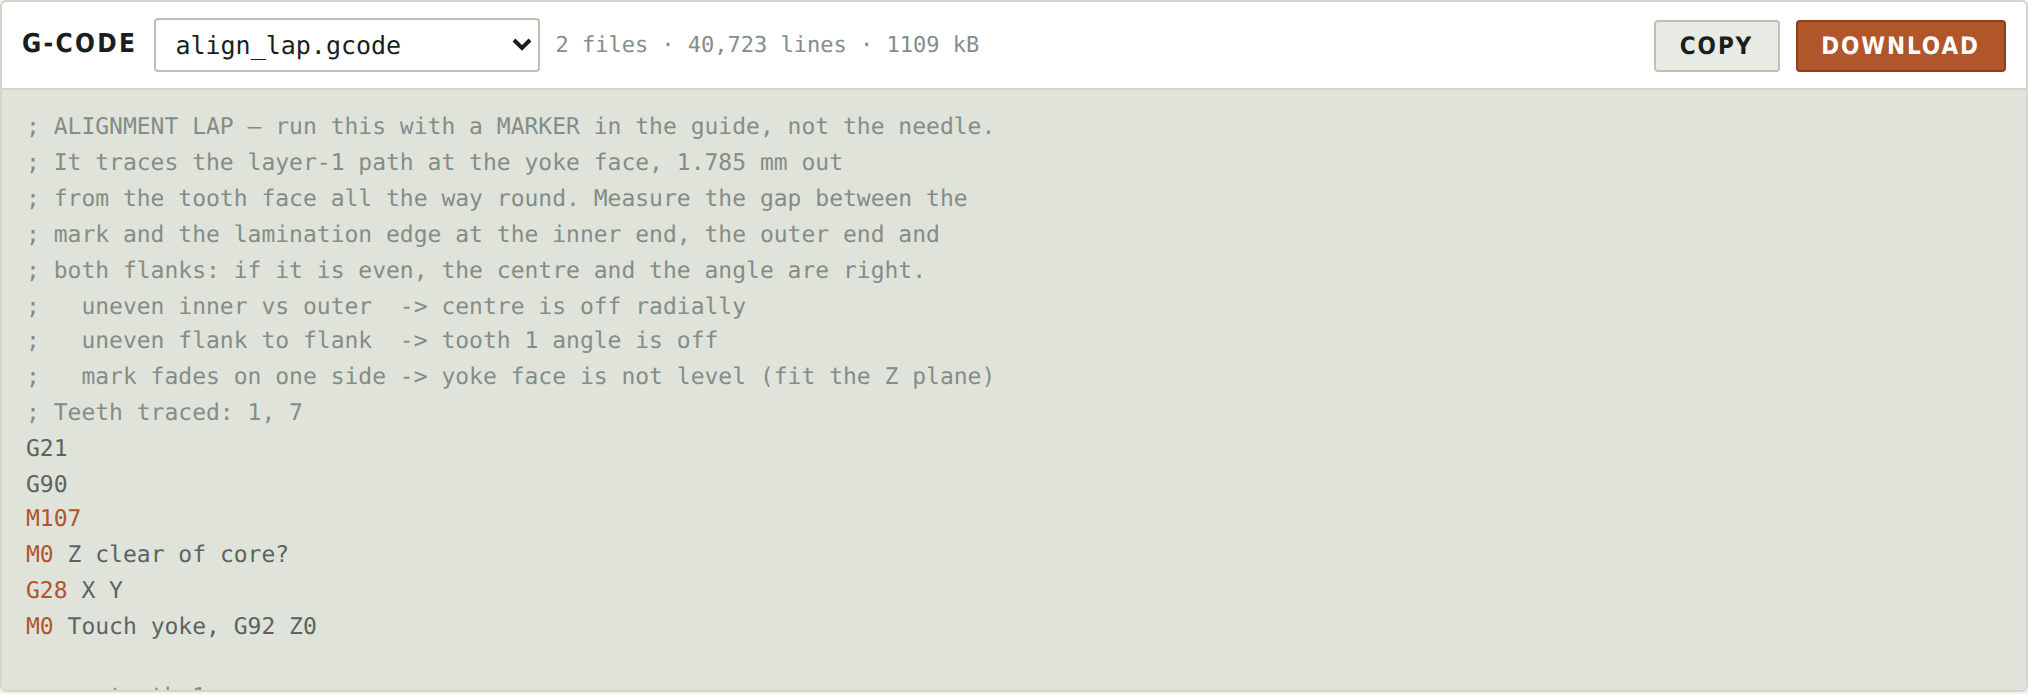
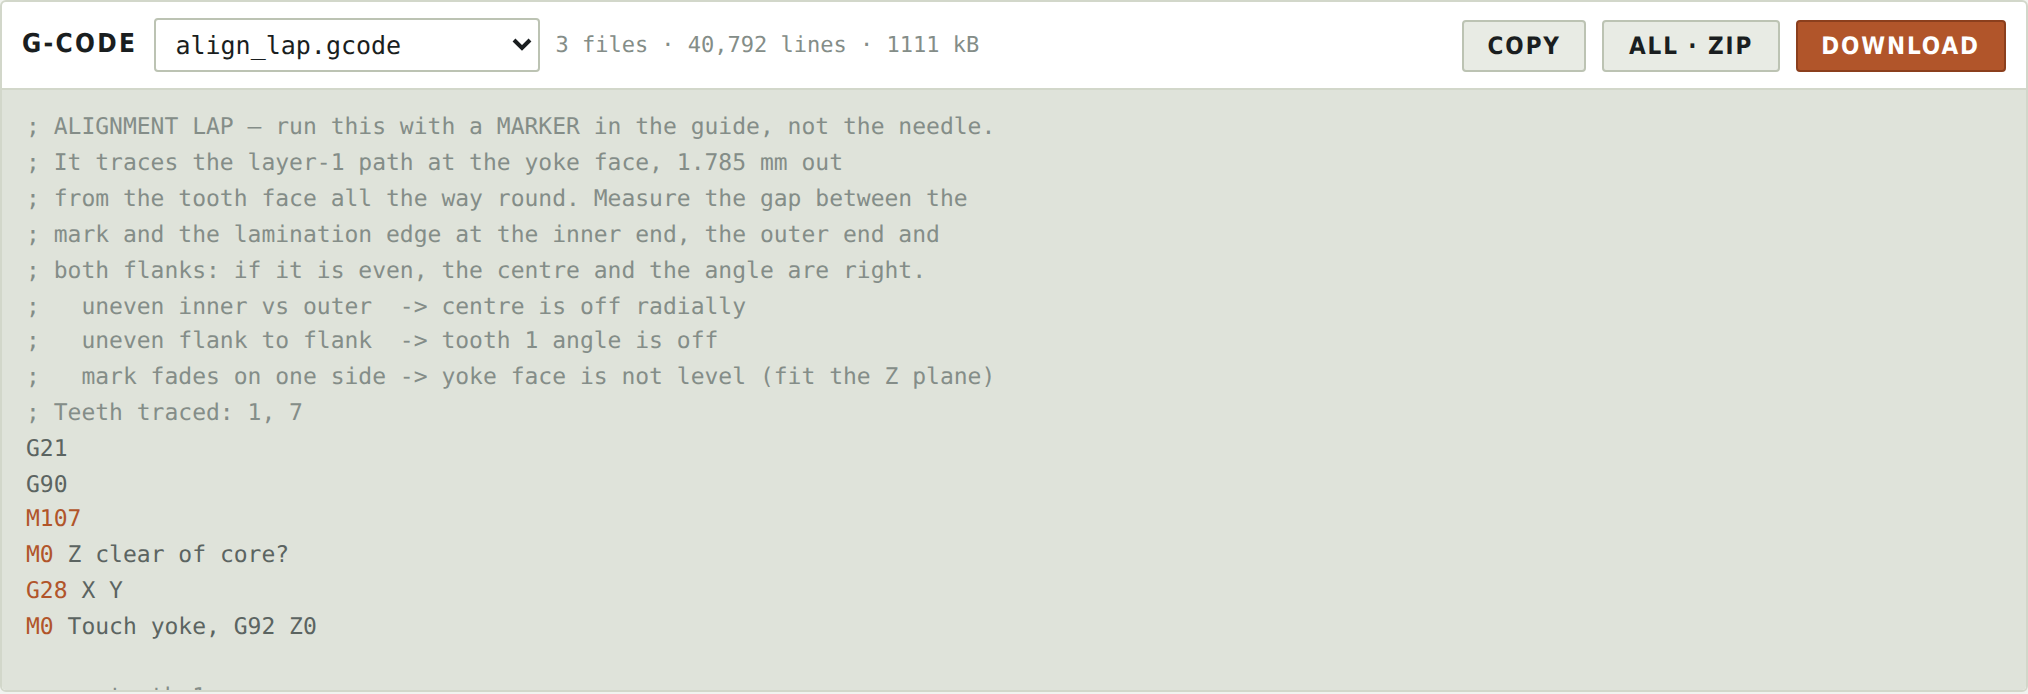
save bug fixed

Changed region(s): [[0.7145, 0.0303, 0.8698, 0.121], [0.4349, 0.0605, 0.466, 0.0908]]

diff --git a/index.html b/index.html
@@ -313,6 +313,7 @@ pre.gcode i{color:var(--ink3);font-style:normal}
       <span class="meta" id="gmeta"></span>
       <span class="spacer"></span>
       <button type="button" class="act" id="btnCopy">Copy</button>
+      <button type="button" class="act" id="btnSaveAll" hidden>All · zip</button>
       <button type="button" class="act pri" id="btnSave">Download</button>
     </div>
     <pre class="gcode" id="gpre"></pre>
@@ -1083,6 +1084,7 @@ function run(){
 
   const sel=$('fileSel');
   sel.hidden=files.length<2;
+  $('btnSaveAll').hidden=files.length<2;
   if(!sel.hidden){
     const keep=sel.value;
     sel.innerHTML=files.map((f,i)=>`<option value="${i}">${f.name}</option>`).join('');
@@ -1402,28 +1404,36 @@ function flash(btn,txt){
   const old=btn.textContent; btn.textContent=txt; btn.disabled=true;
   setTimeout(()=>{btn.textContent=old;btn.disabled=false;},1400);
 }
-$('btnCopy').onclick=async()=>{
-  if(!STATE) return;
-  const i=$('fileSel').hidden?0:+$('fileSel').value;
-  try{ await navigator.clipboard.writeText(STATE.files[i].text); flash($('btnCopy'),'Copied'); }
-  catch(e){ flash($('btnCopy'),'Blocked'); }
-};
-$('btnSave').onclick=async()=>{
-  if(!STATE) return;
-  const {files,p}=STATE, many=files.length>1;
-  const stamp=`${p.turns}t_${p.dOd}mm`;
+const curIdx=()=>{ const s=$('fileSel'); return s.hidden?0:Math.min(+s.value||0,STATE.files.length-1); };
+
+async function deliver(list,zipName,btn){
+  const one=list.length===1;
   if(DL){
-    try{ await DL.save({filename:`coil_winding_${stamp}.zip`, data:zip(files)}); flash($('btnSave'),'Saved'); }
-    catch(err){ flash($('btnSave'), err&&err.code==='declined'?'Cancelled':'Failed'); }
+    // the claude.ai viewer only accepts an allow-listed extension and .gcode
+    // is not one of them, so even a single file goes out inside a zip
+    const name=one?list[0].name.replace(/\.[^.]+$/,'')+'.zip':zipName;
+    try{ await DL.save({filename:name, data:zip(list)}); flash(btn,'Saved'); }
+    catch(err){ flash(btn, err&&err.code==='declined'?'Cancelled':'Failed'); }
     return;
   }
-  const blob=many?zip(files):new Blob([files[0].text],{type:'text/plain'});
+  const blob=one?new Blob([list[0].text],{type:'text/plain'}):zip(list);
   const a=document.createElement('a');
   a.href=URL.createObjectURL(blob);
-  a.download=many?`coil_winding_${stamp}.zip`:files[0].name;
+  a.download=one?list[0].name:zipName;
   document.body.appendChild(a); a.click(); a.remove();
   setTimeout(()=>URL.revokeObjectURL(a.href),4000);
-  flash($('btnSave'),'Saved');
+  flash(btn,'Saved');
+}
+$('btnCopy').onclick=async()=>{
+  if(!STATE) return;
+  try{ await navigator.clipboard.writeText(STATE.files[curIdx()].text); flash($('btnCopy'),'Copied'); }
+  catch(e){ flash($('btnCopy'),'Blocked'); }
+};
+$('btnSave').onclick=()=>{ if(STATE) deliver([STATE.files[curIdx()]],'',$('btnSave')); };
+$('btnSaveAll').onclick=()=>{
+  if(!STATE) return;
+  const p=STATE.p;
+  deliver(STATE.files,`coil_winding_${p.turns}t_${p.dOd}mm.zip`,$('btnSaveAll'));
 };
 
 let pend=null;

diff --git a/docs/MANUAL.md b/docs/MANUAL.md
@@ -353,7 +353,9 @@ Straight runs are emitted as a single `G1` each, since a straight segment with a
 | `coil_<turns>t_<Ø>mm.gcode` | Always | The winding job |
 | `coil_T01.gcode` … | One file per tooth on | The job split by tooth |
 
-Downloads arrive as a zip so the files keep their `.gcode` extension.
+**Download** saves whichever file is chosen in the dropdown next to the G-code heading; **All · zip** saves every file at once. **Copy** copies the chosen file to the clipboard.
+
+One quirk worth knowing: when the tool runs as a hosted artifact on claude.ai, the viewer sandbox only accepts a fixed list of file extensions and `.gcode` is not among them — so downloads there arrive inside a zip even when you asked for a single file. Running from GitHub Pages or from a local copy of `index.html` has no such restriction, and a single file downloads as a plain `.gcode` under its own name.
 
 ---
 
